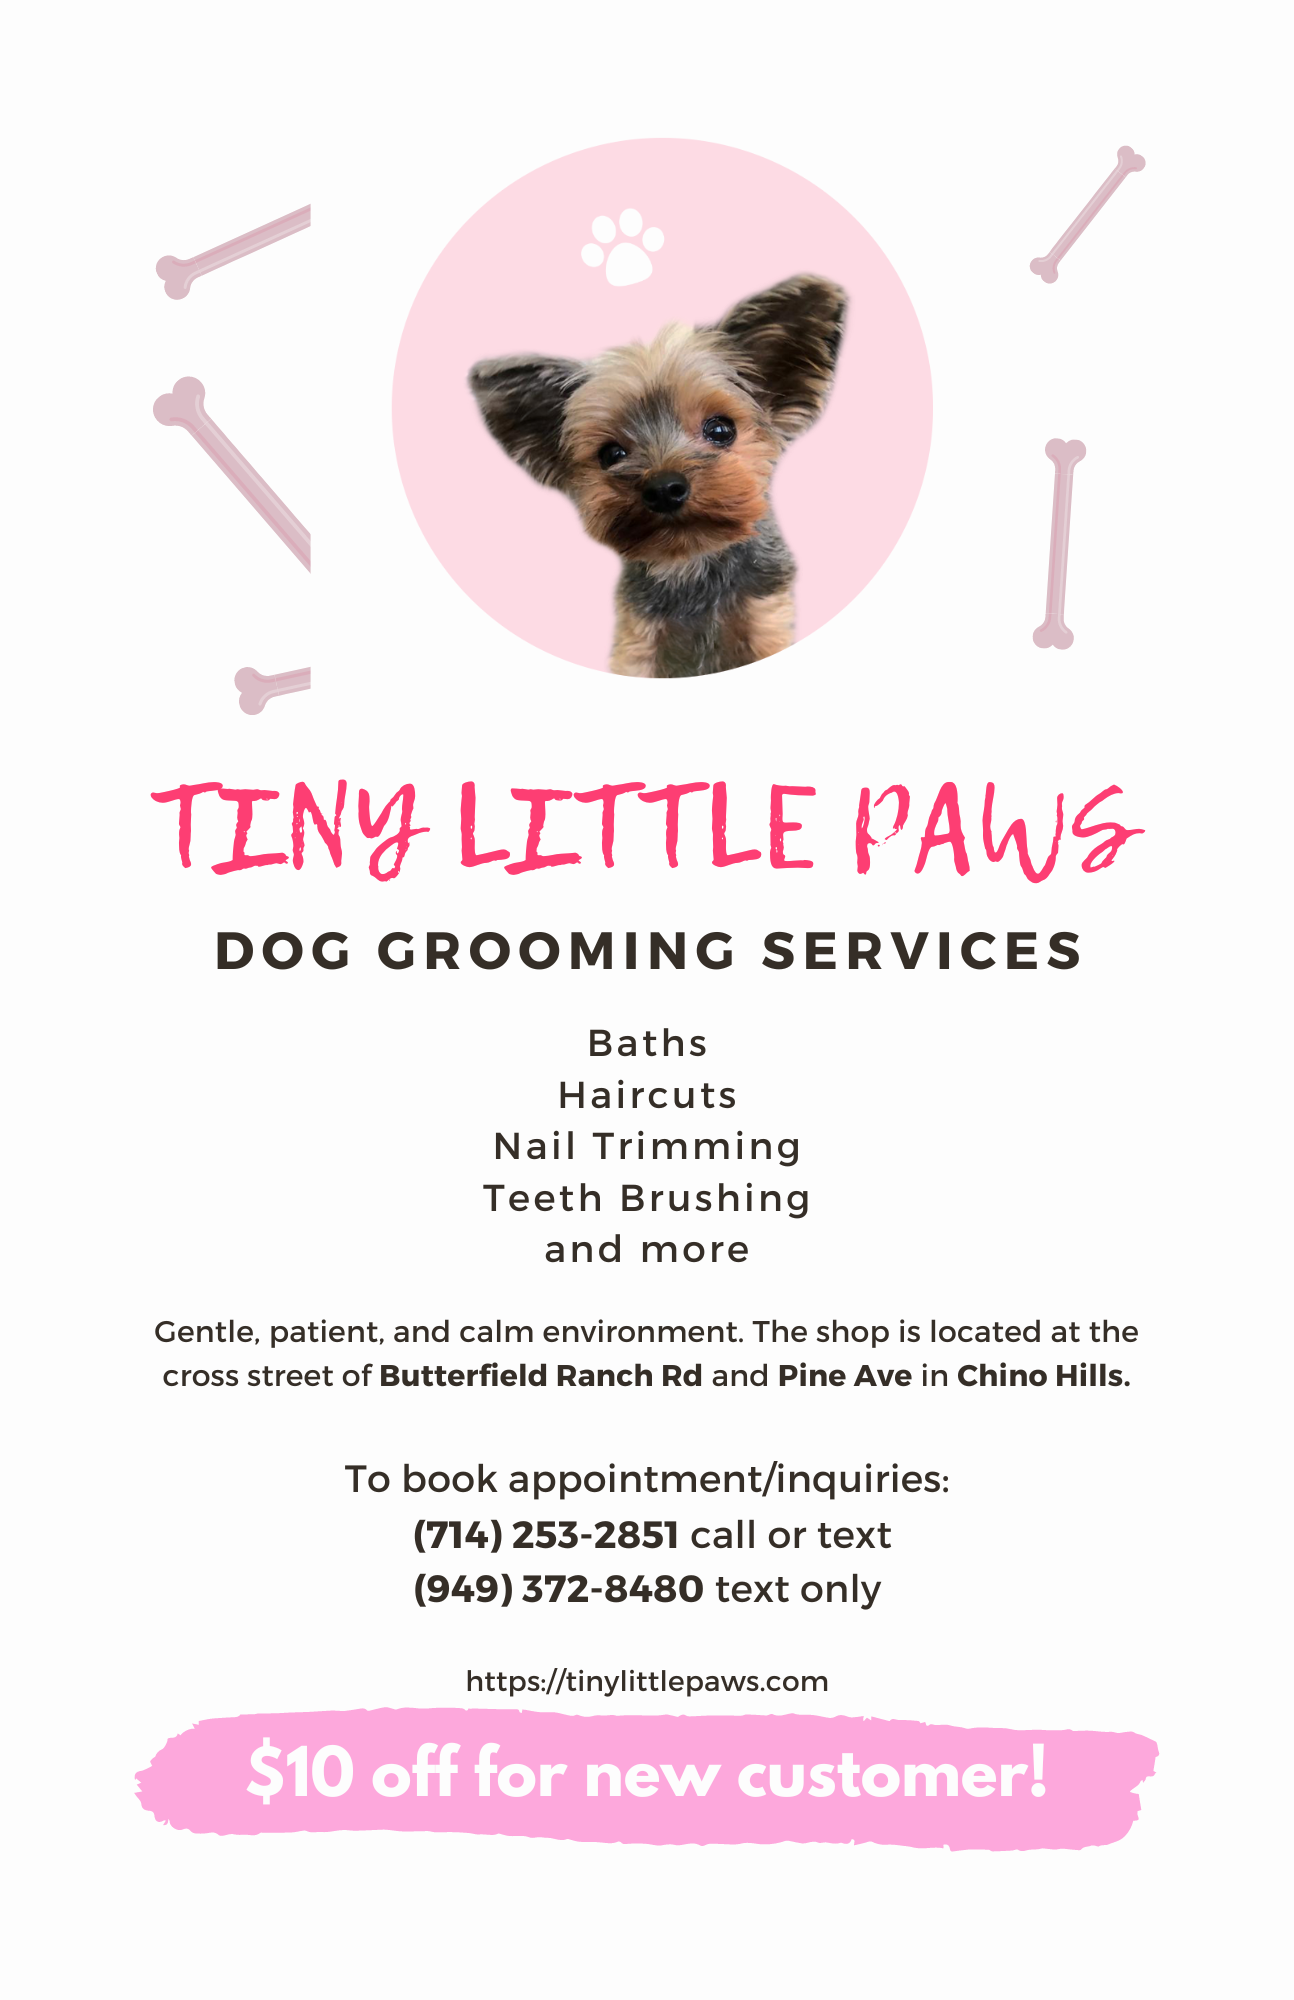
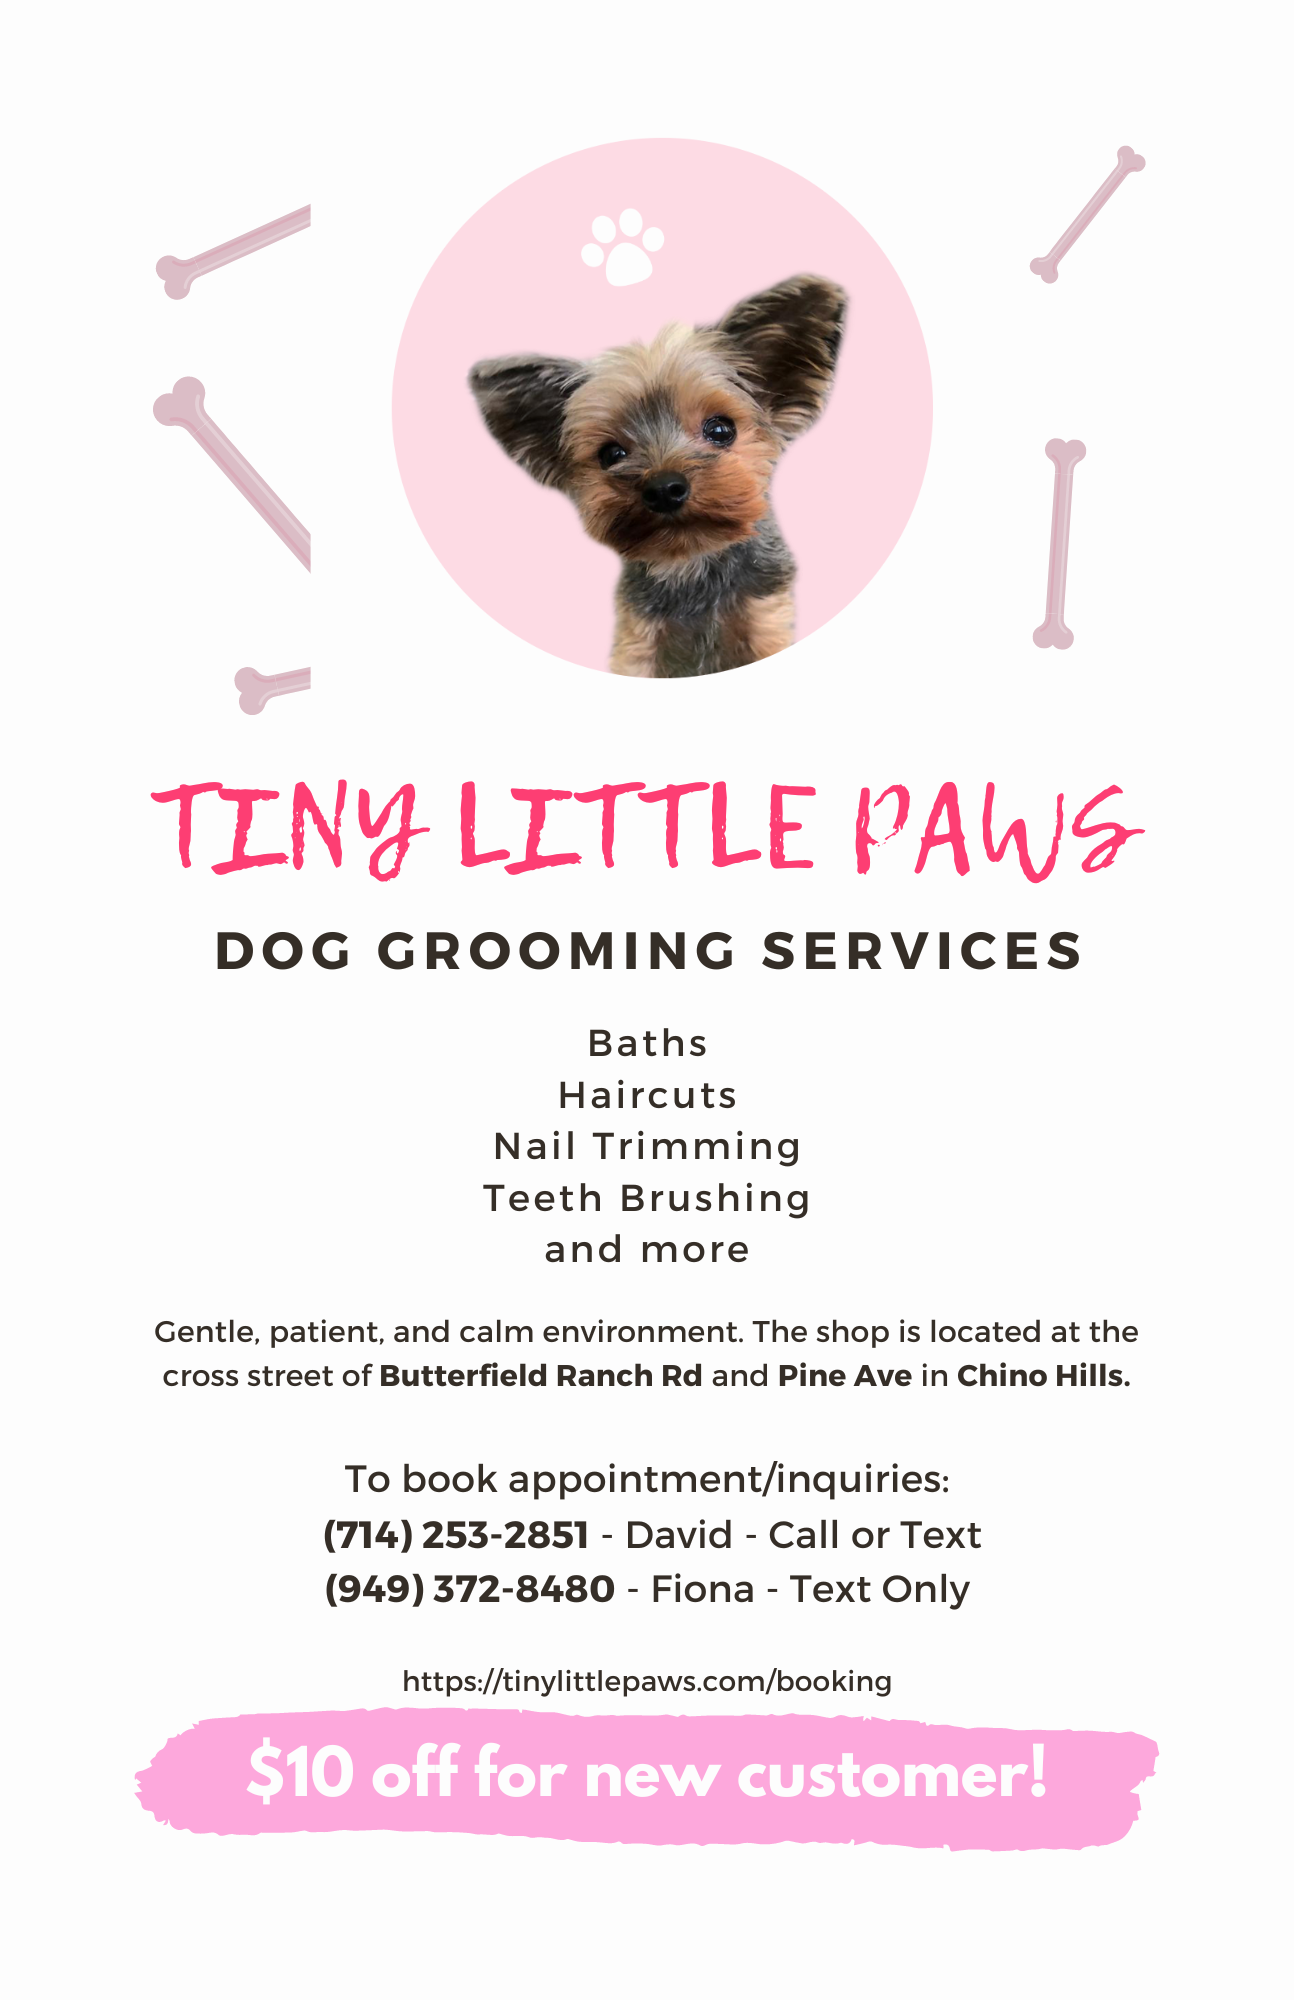
Add booking page and update yelp url

Changed region(s): [[0.2473, 0.744, 0.7419, 0.806], [0.3091, 0.837, 0.6801, 0.868]]

diff --git a/src/routes/+layout.svelte b/src/routes/+layout.svelte
@@ -40,12 +40,15 @@
 			<a href="https://wa.me/17142532851?text=Can%20I%20schedule%20an%20appointment%3F">
 				<Icon icon="akar-icons:whatsapp-fill" color="black" width="20" height="20" />
 			</a>
-			<a href="https://www.yelp.com/biz/tiny-little-paws-pet-grooming-chino-hills">
+			<a href="https://www.yelp.com/biz/tiny-little-paws-dog-grooming-services-chino-hills">
 				<Icon icon="simple-icons:yelp" color="black" width="20" height="20" />
 			</a>
 			<a href="https://instagram.com/tinylittleyorkie">
 				<Icon icon="akar-icons:instagram-fill" color="black" width="20" height="20" />
 			</a>
+			<a href="/booking">
+				<Icon icon="teenyicons:appointments-outline" color="black" width="20" height="20" />
+			</a>	
 		</div>
 	</div>
 </section>
@@ -60,6 +63,7 @@
 		<a href="/gallery" on:click={toggle}>Gallery</a>
 		<a href="/faq" on:click={toggle}>F.A.Q</a>
 		<a href="/contact-us" on:click={toggle}>Contact Us</a>
+		<a href="/booking" on:click={toggle}>Book Now</a>
 	</div>
 	<div class="menu-items-desktop">
 		<a href="/">Home</a>
@@ -69,6 +73,7 @@
 		<a href="/gallery">Gallery</a>
 		<a href="/faq">F.A.Q</a>
 		<a href="/contact-us">Contact Us</a>
+		<a href="/booking">Book Now</a>
 	</div>
 </nav>
 

diff --git a/src/routes/booking/+page.svelte b/src/routes/booking/+page.svelte
@@ -1,0 +1,55 @@
+<section>
+	<h1>Book an appointment today</h1>
+	<div class="package-container">
+		<a href="https://calendly.com/tinylittlepaws/bath-only">Bath Only</a>
+	</div>
+	<div class="package-container">
+		<a href="https://calendly.com/tinylittlepaws/bath-haircut">Bath + Haircut</a>
+	</div>
+</section>
+
+<style>
+	h1 {
+		width: 100%;
+		text-align: center;
+	}
+	section {
+		gap: 2rem;
+		& > div {
+			flex: 1;
+			min-width: 100%;
+			@media (min-width: 798px) {
+				min-width: 400px;
+			}
+		}
+		& .package-container {
+			padding: 2rem;
+			border-radius: 1rem;
+			border: 1px solid #000;
+			& div {
+				display: flex;
+				flex-wrap: wrap;
+				& ul {
+					flex: 1;
+					min-width: 100%;
+					& li {
+						border-bottom: 1px solid #cccccc;
+						padding-bottom: 0.5rem;
+						margin: 0.5rem 0;
+						justify-content: flex-start;
+						gap: 1rem;
+						&:last-child {
+							border: none;
+						}
+						& svg {
+							flex-shrink: 0;
+							width: 24px;
+							height: 24px;
+						}
+					}
+				}
+			}
+		}
+	}
+
+</style>

diff --git a/src/routes/contact-us/+page.svelte b/src/routes/contact-us/+page.svelte
@@ -50,11 +50,11 @@
 		<ul>
 			<li>
 				<strong>Instagram</strong>
-				<p><a href="https://instagram.com/tinylittleyorkie">@TinyLittleYorkie</a></p>
+				<p><a href="https://instagram.com/tinylittlepawsla">@TinyLittlePawsLA</a></p>
 			</li>
 			<li>
 				<strong>Yelp</strong>
-				<p><a href="https://www.yelp.com/biz/tiny-little-paws-pet-grooming-chino-hills">Tiny Little Paws Pet Grooming, Chino Hills</a></p>
+				<p><a href="https://www.yelp.com/biz/tiny-little-paws-dog-grooming-services-chino-hills">Tiny Little Paws Dog Grooming Services, Chino Hills</a></p>
 			</li>
 		</ul>
 	</div>

diff --git a/src/routes/+page.svelte b/src/routes/+page.svelte
@@ -54,7 +54,7 @@
 			},
 			email: 'hello@tinylittlepaws.com',
 			telephone: '(714) 253-2851',
-			sameAs: 'https://www.yelp.com/biz/tiny-little-paws-pet-grooming-chino-hills'
+			sameAs: 'https://www.yelp.com/biz/tiny-little-paws-dog-grooming-services-chino-hills'
 		}
 	]}
 />
